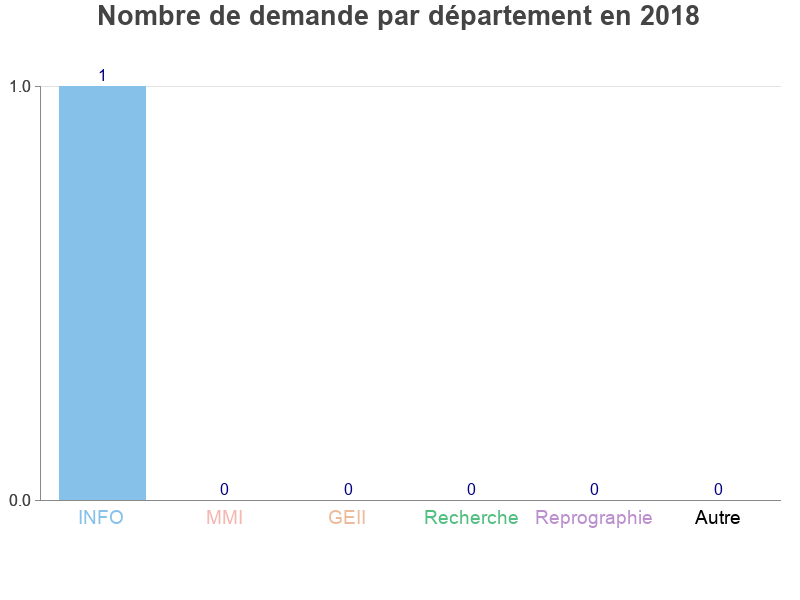
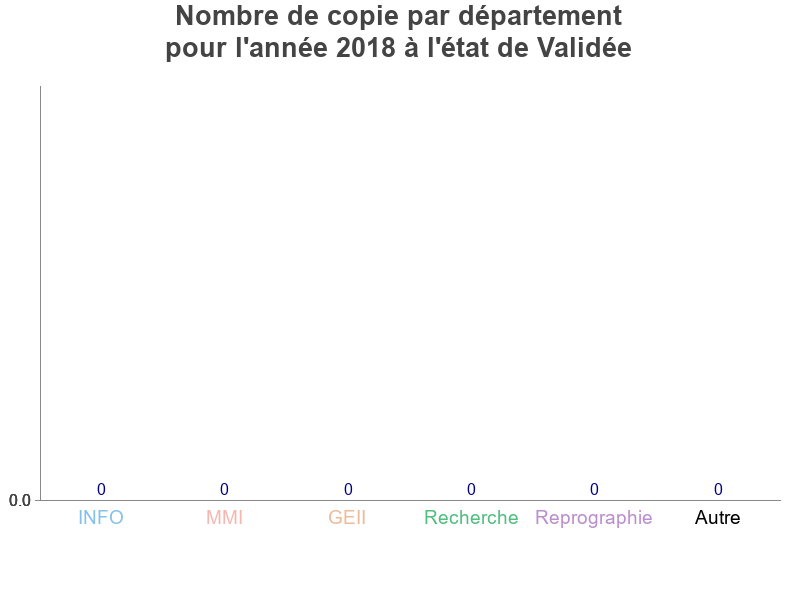
correction et amelioration de la partie stats

Changed region(s): [[0.0625, 0.12, 0.1875, 0.84], [0.125, 0.0, 0.875, 0.12], [0.0, 0.12, 0.0312, 0.15]]

diff --git a/src/site/scripts/grapheStatistique.php b/src/site/scripts/grapheStatistique.php
@@ -3,20 +3,24 @@
 	require_once ('../jpgraph-4.2.0/src/jpgraph_bar.php');
 
 	include("functions.php");
-
-	$resultatINFO = new_request_graphe("INFO","ALL");
-	$dataINFOy=array($resultatINFO);
-	$resultatMMI = new_request_graphe("MMI","ALL");
-	$dataMMIy=array($resultatMMI);
-	$resultatGEII = new_request_graphe("GEII","ALL");
-	$dataGEIIy=array($resultatGEII);
-	$resultatReprographie = new_request_graphe("Reprographie","ALL");
-	$dataRecherchey=array($resultatReprographie);
-	$resultatRecherche = new_request_graphe("Recherche","ALL");
-	$dataReprographiey=array($resultatRecherche);
-	$resultatAutre = new_request_graphe("Autre","ALL");
-	$dataAutrey=array($resultatAutre);
-	$data1y=array($resultatINFO, $resultatMMI, $resultatGEII, $resultatRecherche, $resultatReprographie, $resultatAutre);
+	function grapheStatistique(){
+	$donnee=array("INFO","MMI","GEII","Reprographie","Recherche","Autre");
+	$data1y=array();
+	$champEtat = $_POST['champEtat'];
+	if($champEtat == 'ALL'){
+		$etat = "All";
+	}if($champEtat == 'EN ATTENTE'){
+		$etat = "En attente";
+	}if($champEtat == 'VALIDEE'){
+		$etat = "Validée";
+	}if($champEtat == 'ANNULEE'){
+		$etat = "Annulée";
+	}if($champEtat == 'EN COURS'){
+		$etat = "En cours";
+	}
+	foreach ($donnee as $i=>$value) {
+		$data1y[$i]	= new_request_graphe($value, $champEtat);
+	}
 
 	// Create the graph. These two calls are always required
 	$graph = new Graph(800,600,'auto');
@@ -38,6 +42,22 @@
 	// Create the bar plots
 	$b1plot = new BarPlot($data1y);
 
+	//création du soustitre
+	$jour = array("Dimanche","Lundi","Mardi","Mercredi","Jeudi","Vendredi","Samedi");
+	$mois = array("","Janvier","Février","Mars","Avril","Mai","Juin","Juillet","Août","Septembre","Octobre","Novembre","Décembre");
+	$datefr = $jour[date("w")]." ".date("d")." ".$mois[date("n")]." ".date("Y"); 
+	$ChampsDate = $_POST['champDate'];
+	if($ChampsDate == 'Journalier'){
+		$datefr = $jour[date("w")]." ".date("d")." ".$mois[date("n")]." ".date("Y");
+		$soustitre = "pour le ".$datefr." à l'état de ".$etat;
+	}if($ChampsDate == 'Mensuelle'){
+		$datefr = $mois[date("n")];
+		$soustitre = "pour le mois de ".$datefr." à l'état de ".$etat;
+	}if($ChampsDate == 'Annuelle'){
+		$datefr = date("Y");
+		$soustitre = "pour l'année ".$datefr." à l'état de ".$etat;
+	}
+	
 	// Create the grouped bar plot
 	$gbplot = new GroupBarPlot(array($b1plot));
 	// ...and add it to the graPH
@@ -47,9 +67,11 @@
 	$b1plot->value->SetFont(FF_ARIAL,FS_NORMAL,12);
 	$b1plot->SetColor(array('#85c1e9', '#f5b7b1', '#edbb99','#52be80','#bb8fce','black'));
 	$b1plot->SetFillColor(array('#85c1e9', '#f5b7b1', '#edbb99','#52be80','#bb8fce','black'));
-	$todayAnnee = date("y");
-	$graph->title->Set("Nombre de demande par département en 20".$todayAnnee);
+	$todayAnnee = date("Y");
+	$graph->title->Set("Nombre de copie par département");
 	$graph->title->SetFont(FF_ARIAL,FS_BOLD,20);
+	$graph->subtitle->Set($soustitre);
+	$graph->subtitle->SetFont(FF_ARIAL,FS_BOLD,20);
 
 	// Display the graph
 	$filename = "../img/statistique.png";
@@ -58,8 +80,9 @@
 		unlink($filename);
 		$graph->Stroke($filename);
 		echo "<center><img src='".$filename."' /><center>";
-	} else {
+	}else {
 		$graph->Stroke($filename);
 		echo "<center><img src='".$filename."' /><center>";
+	}
 	}
 ?>

diff --git a/src/site/scripts/functions.php b/src/site/scripts/functions.php
@@ -884,16 +884,34 @@ A bientot !
 	// Etats acceptés : "EN ATTENTE", "EN COURS", "VALIDEE", "ANNULEE" , "ALL"
 	
 		$bdd = connexion_sql();
-		$todayAnnee = date("y");
+		$ChampsDate = $_POST['champDate'];
+		if($ChampsDate == 'Journalier'){
+			$today = date("d-m-y");
+			if($etat === "VALIDEE"){
+				$sql = "SELECT COUNT('num_copy') FROM requests, real_user WHERE requests.user_email=real_user.user_email AND `department`='".$department."' AND `creation_date`='".$today."'";
+			}
+			else {
+				$sql = "SELECT COUNT('num_copy') FROM requests, real_user WHERE requests.user_email=real_user.user_email AND `department`='".$department."' AND `etat`='".$etat."' AND `creation_date`='".$today."'";
+			}
+		}if($ChampsDate == 'Mensuelle'){
+			$todayMois = date("m-y");
+			
+			if($etat === "VALIDEE"){
+				$sql = "SELECT COUNT('num_copy') FROM requests, real_user WHERE requests.user_email=real_user.user_email AND `department`='".$department."' AND `creation_date` BETWEEN '20".$todayMois."-01' AND '20".$todayMois."-31'";
+			}
+			else {
+				$sql = "SELECT COUNT('num_copy') FROM requests, real_user WHERE requests.user_email=real_user.user_email AND `department`='".$department."' AND `etat`='".$etat."' AND `creation_date` BETWEEN '20".$todayMois."-01' AND '20".$todayMois."-31'";
+			}
+		}if($ChampsDate == 'Annuelle'){
+			$todayAnnee = date("Y");
+			if($etat === "VALIDEE"){
+				$sql = "SELECT COUNT('num_copy') FROM requests, real_user WHERE requests.user_email=real_user.user_email AND `department`='".$department."' AND `creation_date` BETWEEN '".$todayAnnee."-01-01' AND '20".$todayAnnee."-12-31'";
+			}
+			else {
+				$sql = "SELECT COUNT('num_copy') FROM requests, real_user WHERE requests.user_email=real_user.user_email AND `department`='".$department."' AND `etat`='".$etat."' AND `creation_date` BETWEEN '".$todayAnnee."-01-01' AND '20".$todayAnnee."-12-31'";
+			}
+		}
 		//  REQUETE SQL DE SELECTION
-		
-		if($etat === "ALL"){
-			$sql = "SELECT COUNT('num_copy') FROM requests, real_user WHERE requests.user_email=real_user.user_email AND `department`='".$department."' AND `creation_date` BETWEEN '20".$todayAnnee."-01-01' AND '20".$todayAnnee."-12-31'";
-		}
-		else {
-			$sql = "SELECT COUNT('num_copy') FROM requests, real_user WHERE requests.user_email=real_user.user_email AND `department`='".$department."' AND `etat`='".$etat."' AND `creation_date` BETWEEN '20".$todayAnnee."-01-01' AND '20".$todayAnnee."-12-31'";
-		}
-		
 		$reponse = ($bdd->query($sql))->fetch();
 		$resultat = $reponse["COUNT('num_copy')"];
 		return $resultat;

diff --git a/src/site/pages/repro-stat.php b/src/site/pages/repro-stat.php
@@ -65,18 +65,37 @@
 				
                     <legend class="color-blue">Statistiques : </legend>
 					<br/>
+					<form method="POST" action="repro-stat.php">
+						<div class="col">
+							<label for="inputDate">Suivi periode : </label>
+							<select name="champDate" class="form-control" >
+								<option value="Journalier">Journalier</option>
+								<option value="Mensuelle">Mensuelle</option>
+								<option value="Annuelle" selected="selected" >Annuelle</option>	
+							</select>
+							<label for="inputEtat">Etat : </label>
+							<select name="champEtat" class="form-control" >
+								<option value="ALL">All</option>
+								<option value="EN ATTENTE">En attente</option>
+								<option value="EN COURS">En cour</option>
+								<option value="VALIDEE" selected="selected">Validée</option>
+								<option value="ANNULEE">Annulée</option>
+							</select>
+							<br/>
+							<button type="submit" class="btn btn-primary">Afficher le graphe</button>
+						</div>
+					</form>
 					<br/>
 					<?php
-						include("../scripts/grapheStatistique.php");
+						if (!empty($_POST['champDate']) && !empty($_POST['champEtat']) ){ ### Si ce n'est pas vide
+							include("../scripts/grapheStatistique.php");
+							grapheStatistique();
+						}
 					?>
 				</div>
-				
 				<div class="col-xs-2 col-sm-2 col-md-2 col-lg-2"></div>
 			</div>
 		</content>
-
-
-
 
         <!-- jQuery first, then Popper.js, then Bootstrap JS -->
         <script src="https://code.jquery.com/jquery-3.3.1.slim.min.js" integrity="sha384-q8i/X+965DzO0rT7abK41JStQIAqVgRVzpbzo5smXKp4YfRvH+8abtTE1Pi6jizo" crossorigin="anonymous"></script>
